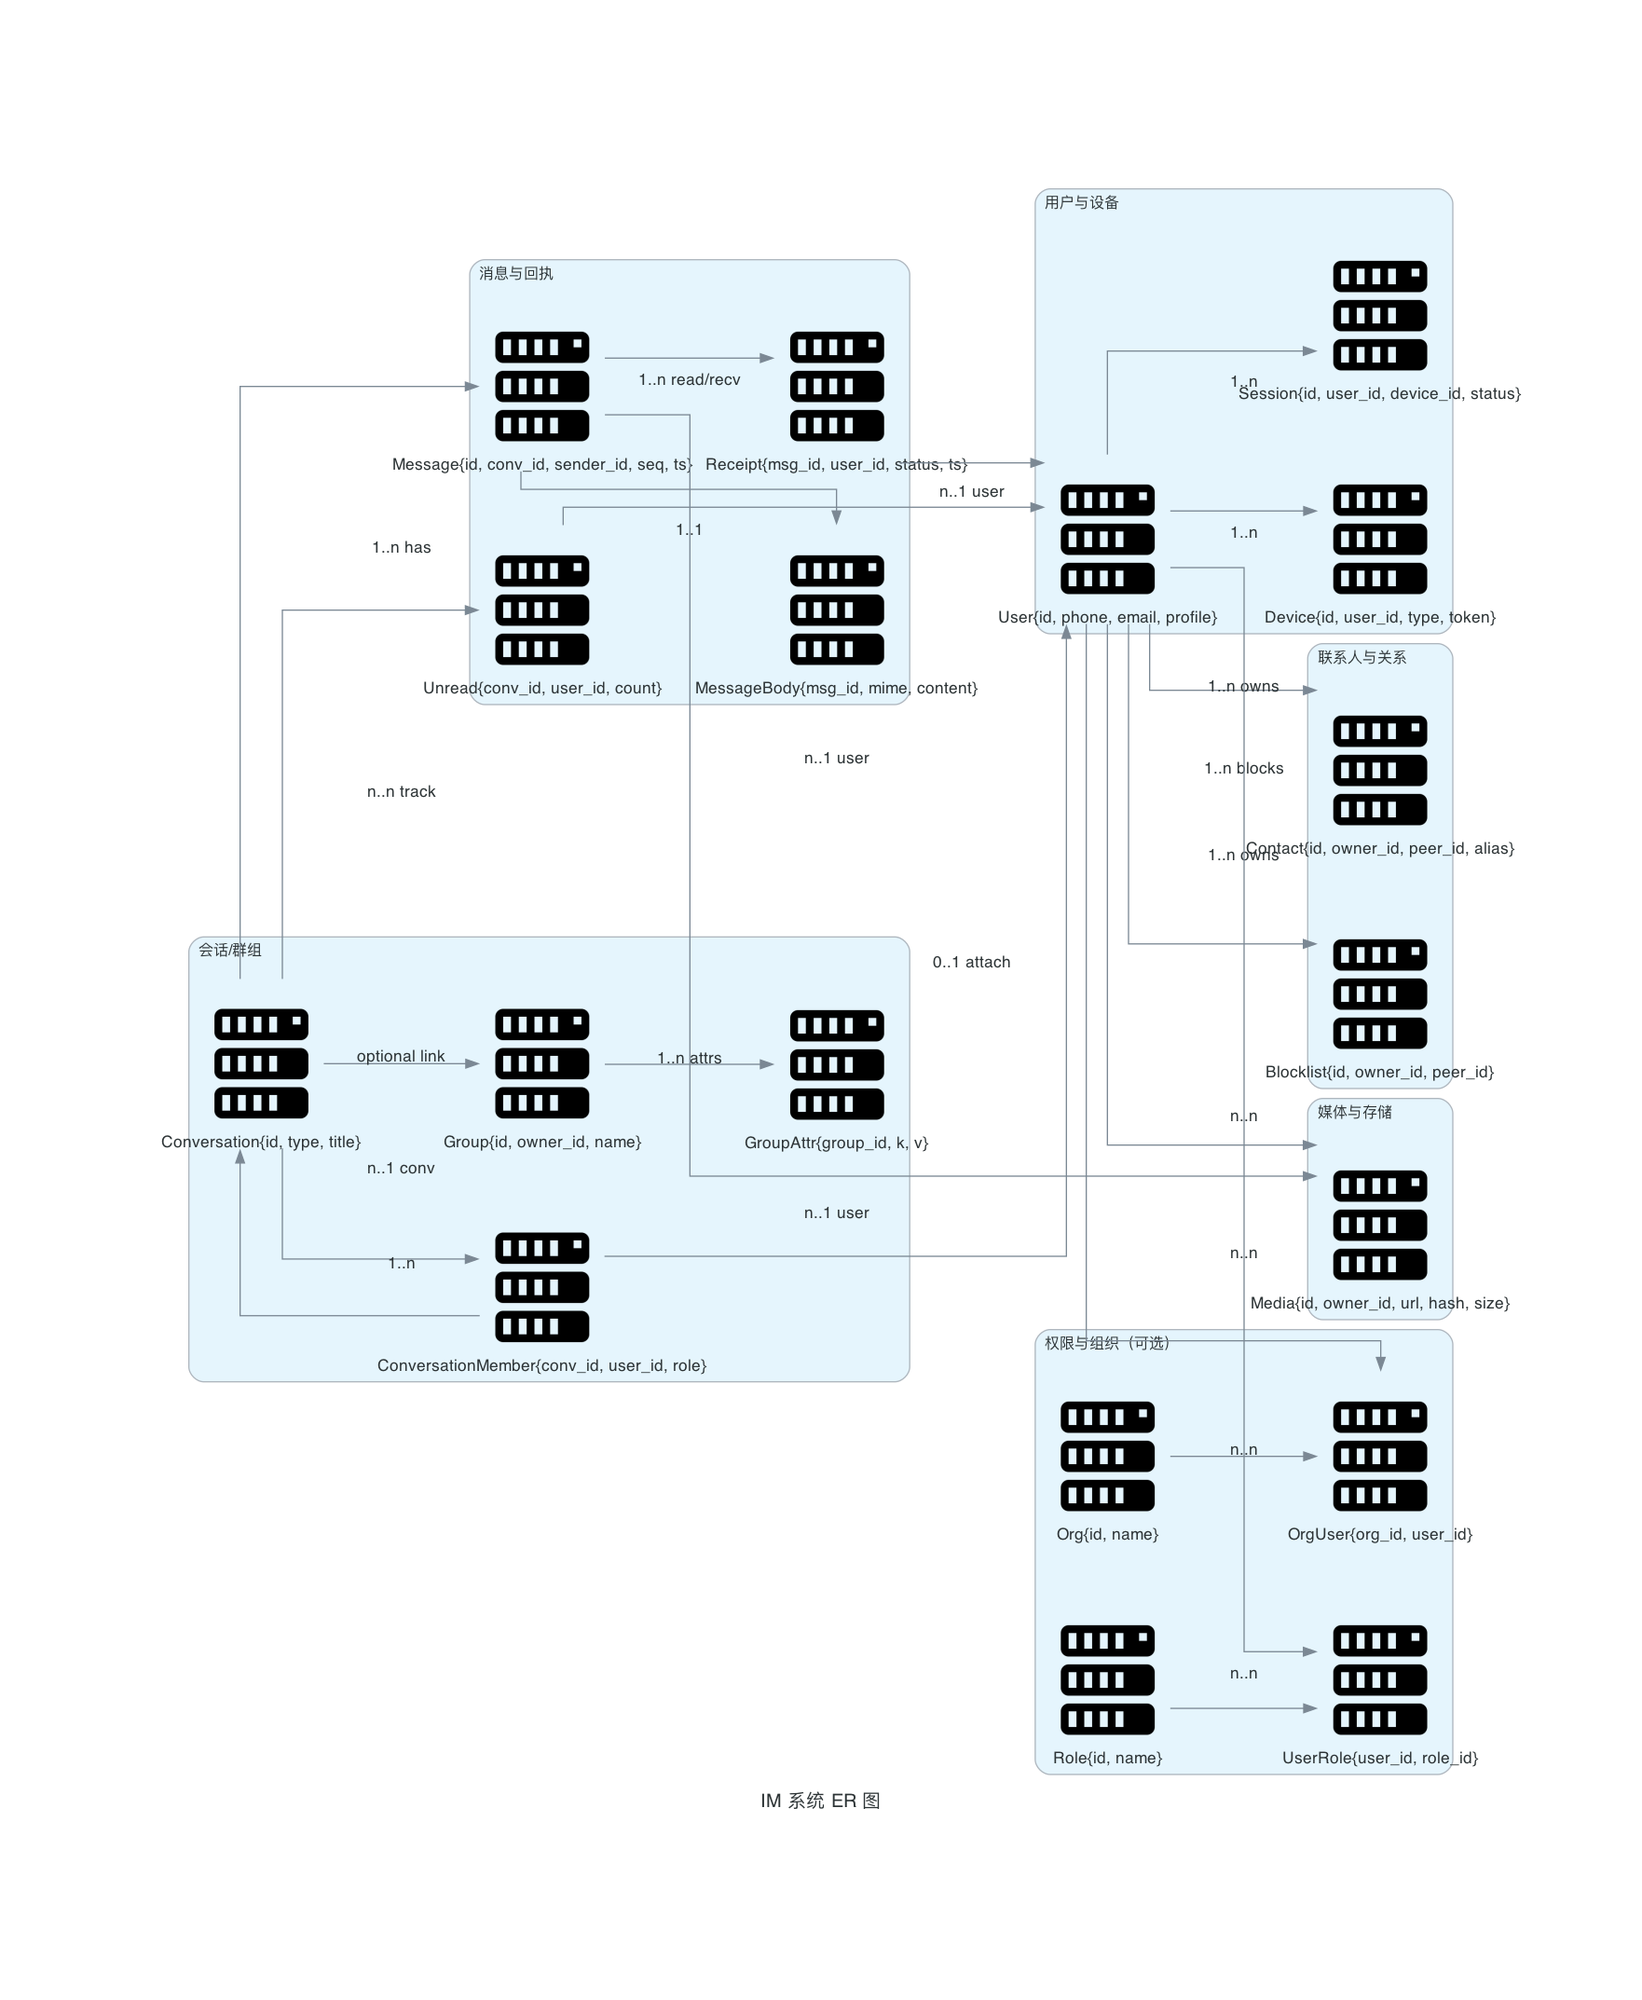
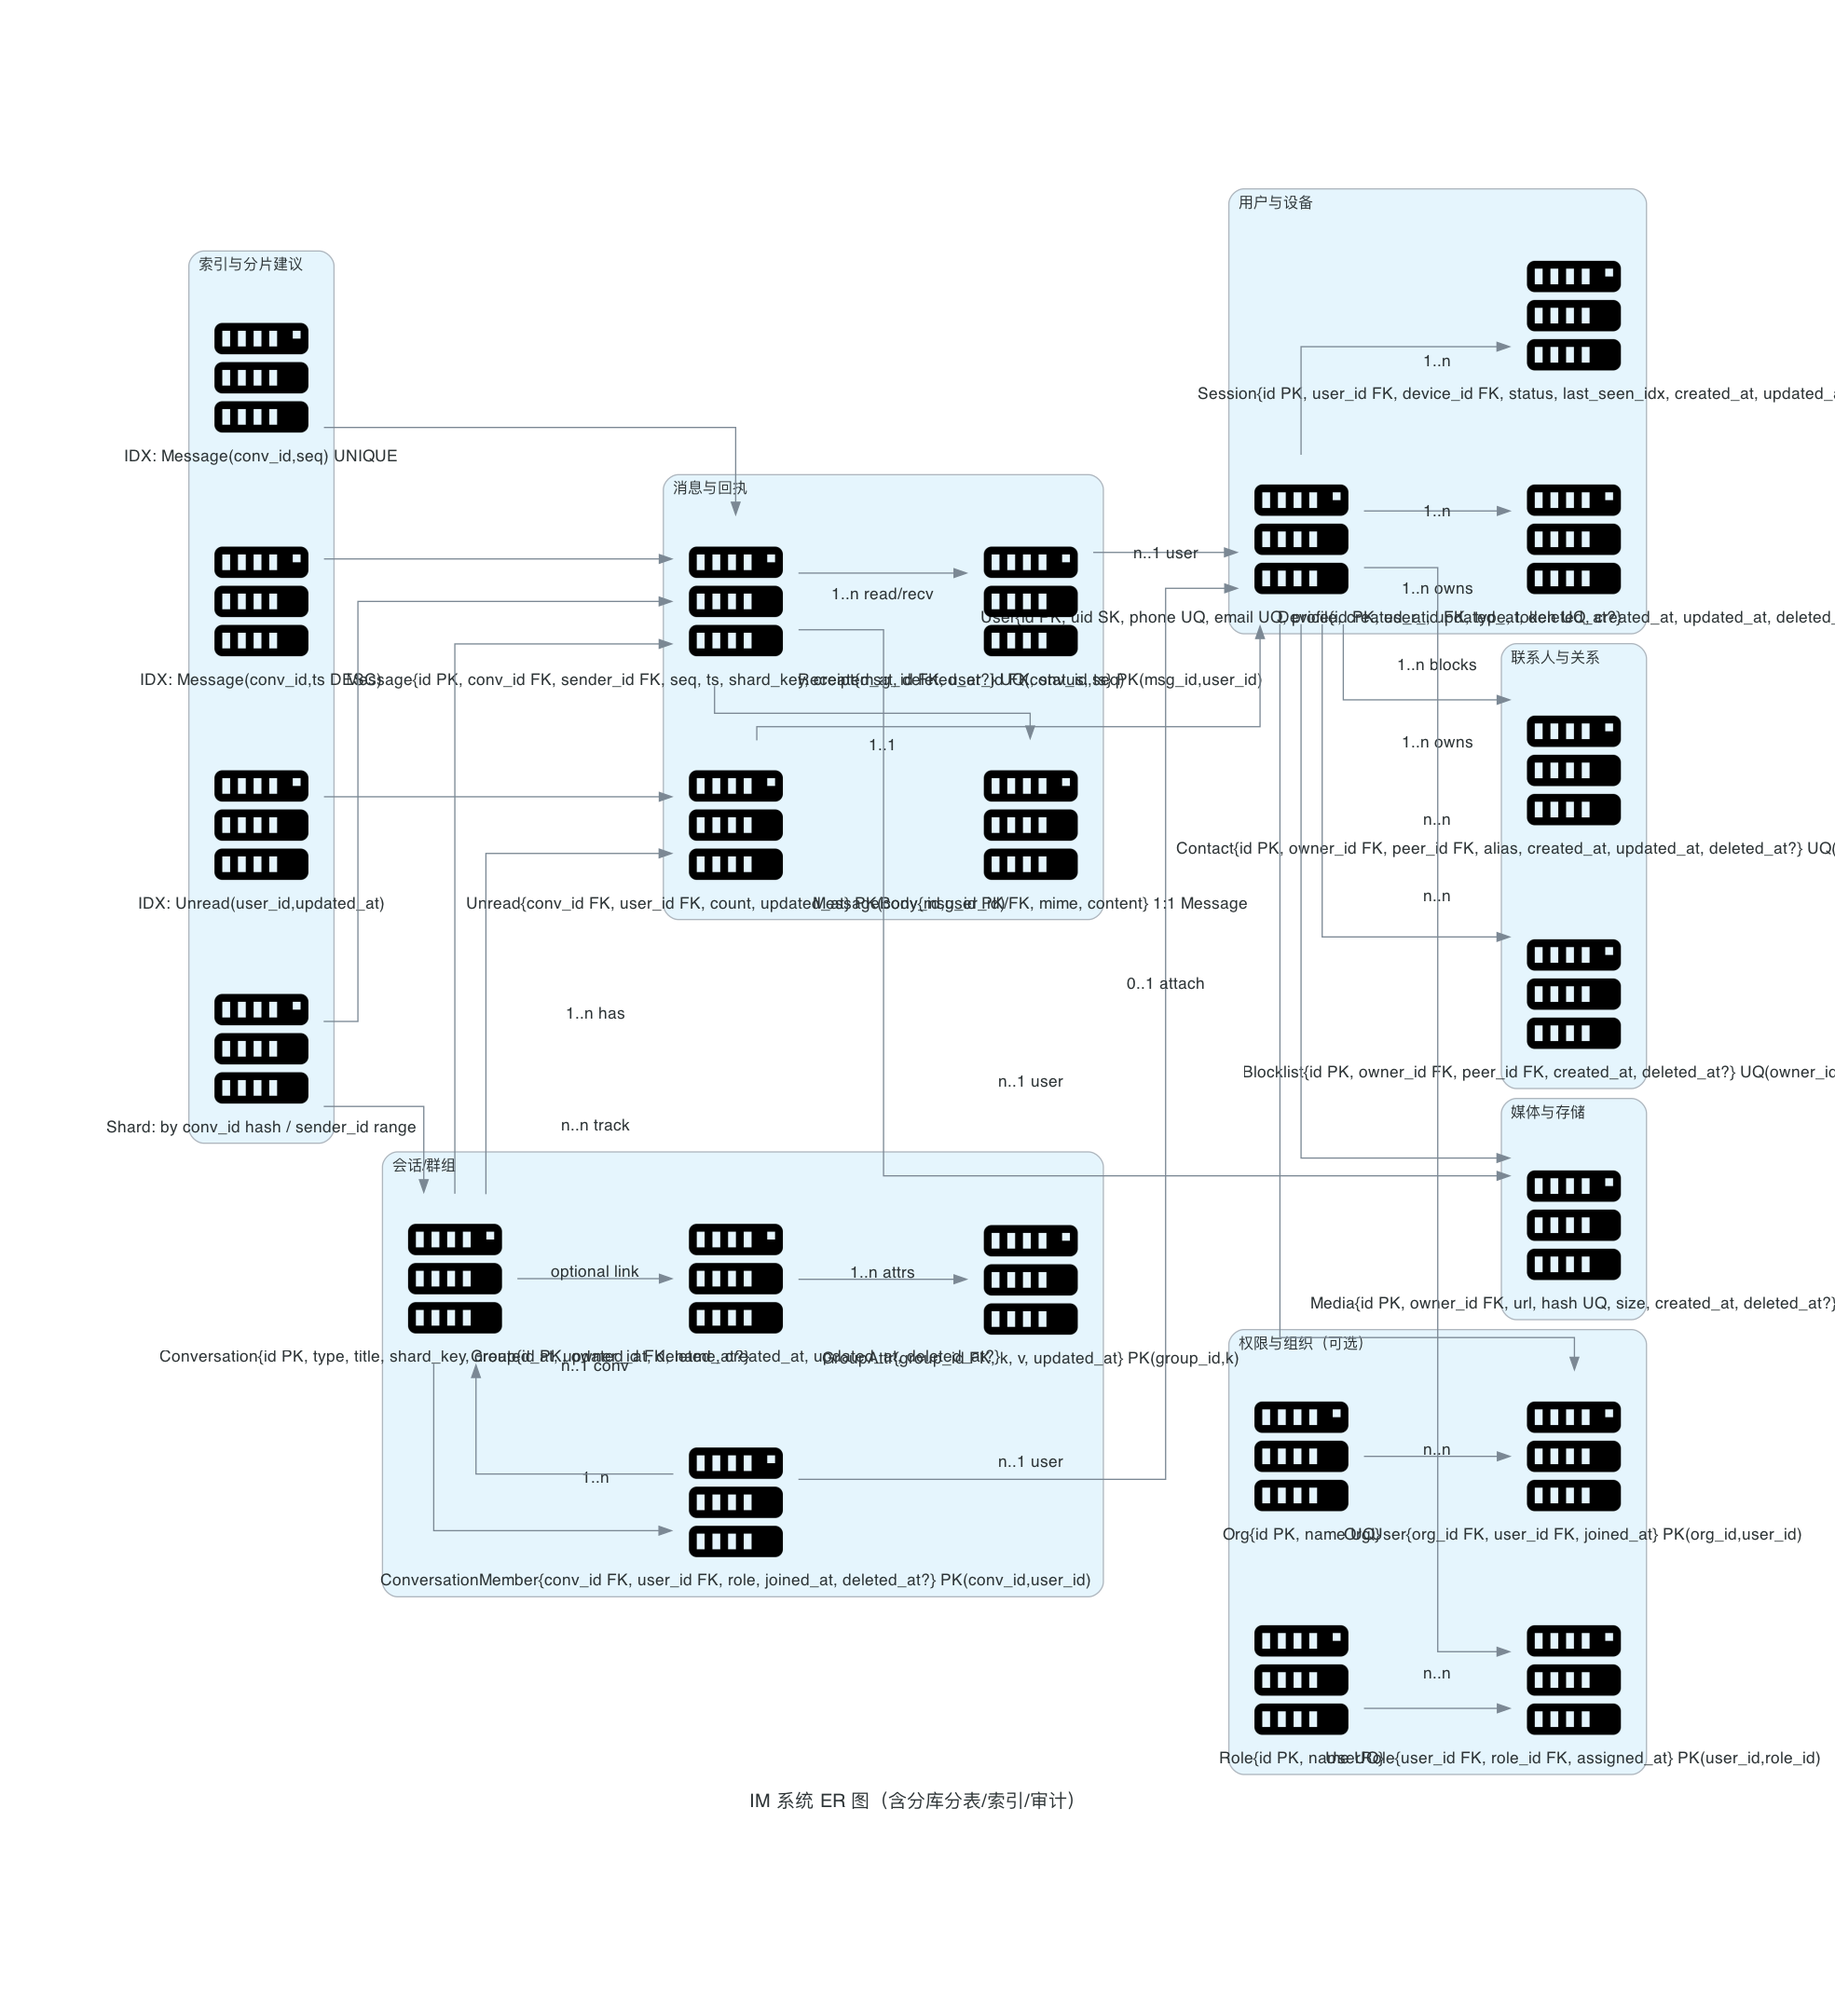
feat：Update ER diagram to include sharding, indexes, and audit fields
Enhanced the IM system entity-relationship diagram by adding sharding keys, unique indexes, and audit fields (created_at, updated_at, deleted_at) to all tables. Updated both PDF and PNG exports to reflect the new schema design with improved database architecture considerations.

diff --git a/im_er_diagram.py b/im_er_diagram.py
@@ -3,53 +3,64 @@ from diagrams.onprem.compute import Server
 
 
 def create_im_er_diagram(filename: str, outformat: str) -> None:
-    with Diagram("IM 系统 ER 图", filename=filename, show=False, outformat=outformat, direction="LR"):
+    with Diagram("IM 系统 ER 图（含分库分表/索引/审计）", filename=filename, show=False, outformat=outformat, direction="LR"):
         with Cluster("用户与设备"):
-            user = Server("User{id, phone, email, profile}")
-            device = Server("Device{id, user_id, type, token}")
-            session = Server("Session{id, user_id, device_id, status}")
+            user = Server("User{id PK, uid SK, phone UQ, email UQ, profile, created_at, updated_at, deleted_at?}")
+            device = Server("Device{id PK, user_id FK, type, token UQ, created_at, updated_at, deleted_at?}")
+            session = Server("Session{id PK, user_id FK, device_id FK, status, last_seen_idx, created_at, updated_at, deleted_at?}")
             user >> Edge(label="1..n") >> device
             user >> Edge(label="1..n") >> session
 
         with Cluster("联系人与关系"):
-            contact = Server("Contact{id, owner_id, peer_id, alias}")
-            block = Server("Blocklist{id, owner_id, peer_id}")
+            contact = Server("Contact{id PK, owner_id FK, peer_id FK, alias, created_at, updated_at, deleted_at?} UQ(owner_id,peer_id)")
+            block = Server("Blocklist{id PK, owner_id FK, peer_id FK, created_at, deleted_at?} UQ(owner_id,peer_id)")
             user >> Edge(label="1..n owns") >> contact
             user >> Edge(label="1..n blocks") >> block
 
         with Cluster("会话/群组"):
-            conv = Server("Conversation{id, type, title}")
-            member = Server("ConversationMember{conv_id, user_id, role}")
-            group = Server("Group{id, owner_id, name}")
-            group_attr = Server("GroupAttr{group_id, k, v}")
+            conv = Server("Conversation{id PK, type, title, shard_key, created_at, updated_at, deleted_at?}")
+            member = Server("ConversationMember{conv_id FK, user_id FK, role, joined_at, deleted_at?} PK(conv_id,user_id)")
+            group = Server("Group{id PK, owner_id FK, name, created_at, updated_at, deleted_at?}")
+            group_attr = Server("GroupAttr{group_id FK, k, v, updated_at} PK(group_id,k)")
             conv >> Edge(label="1..n") >> member
             group >> Edge(label="1..n attrs") >> group_attr
             conv >> Edge(label="optional link") >> group
 
         with Cluster("消息与回执"):
-            message = Server("Message{id, conv_id, sender_id, seq, ts}")
-            message_body = Server("MessageBody{msg_id, mime, content}")
-            receipt = Server("Receipt{msg_id, user_id, status, ts}")
-            unread = Server("Unread{conv_id, user_id, count}")
+            message = Server("Message{id PK, conv_id FK, sender_id FK, seq, ts, shard_key, created_at, deleted_at?} UQ(conv_id,seq)")
+            message_body = Server("MessageBody{msg_id PK/FK, mime, content} 1:1 Message")
+            receipt = Server("Receipt{msg_id FK, user_id FK, status, ts} PK(msg_id,user_id)")
+            unread = Server("Unread{conv_id FK, user_id FK, count, updated_at} PK(conv_id,user_id)")
             message >> Edge(label="1..1") >> message_body
             message >> Edge(label="1..n read/recv") >> receipt
             conv >> Edge(label="1..n has") >> message
             conv >> Edge(label="n..n track") >> unread
 
         with Cluster("媒体与存储"):
-            media = Server("Media{id, owner_id, url, hash, size}")
+            media = Server("Media{id PK, owner_id FK, url, hash UQ, size, created_at, deleted_at?}")
             message >> Edge(label="0..1 attach") >> media
             user >> Edge(label="1..n owns") >> media
 
         with Cluster("权限与组织（可选）"):
-            role = Server("Role{id, name}")
-            user_role = Server("UserRole{user_id, role_id}")
-            org = Server("Org{id, name}")
-            org_user = Server("OrgUser{org_id, user_id}")
+            role = Server("Role{id PK, name UQ}")
+            user_role = Server("UserRole{user_id FK, role_id FK, assigned_at} PK(user_id,role_id)")
+            org = Server("Org{id PK, name UQ}")
+            org_user = Server("OrgUser{org_id FK, user_id FK, joined_at} PK(org_id,user_id)")
             role >> Edge(label="n..n") >> user_role
             user >> Edge(label="n..n") >> user_role
             org >> Edge(label="n..n") >> org_user
             user >> Edge(label="n..n") >> org_user
+
+        with Cluster("索引与分片建议"):
+            idx_conv = Server("IDX: Message(conv_id,seq) UNIQUE")
+            idx_time = Server("IDX: Message(conv_id,ts DESC)")
+            idx_unread = Server("IDX: Unread(user_id,updated_at)")
+            shard = Server("Shard: by conv_id hash / sender_id range")
+            idx_conv >> message
+            idx_time >> message
+            idx_unread >> unread
+            shard >> message
+            shard >> conv
 
         # Cross-entity links
         member >> Edge(label="n..1 user") >> user
